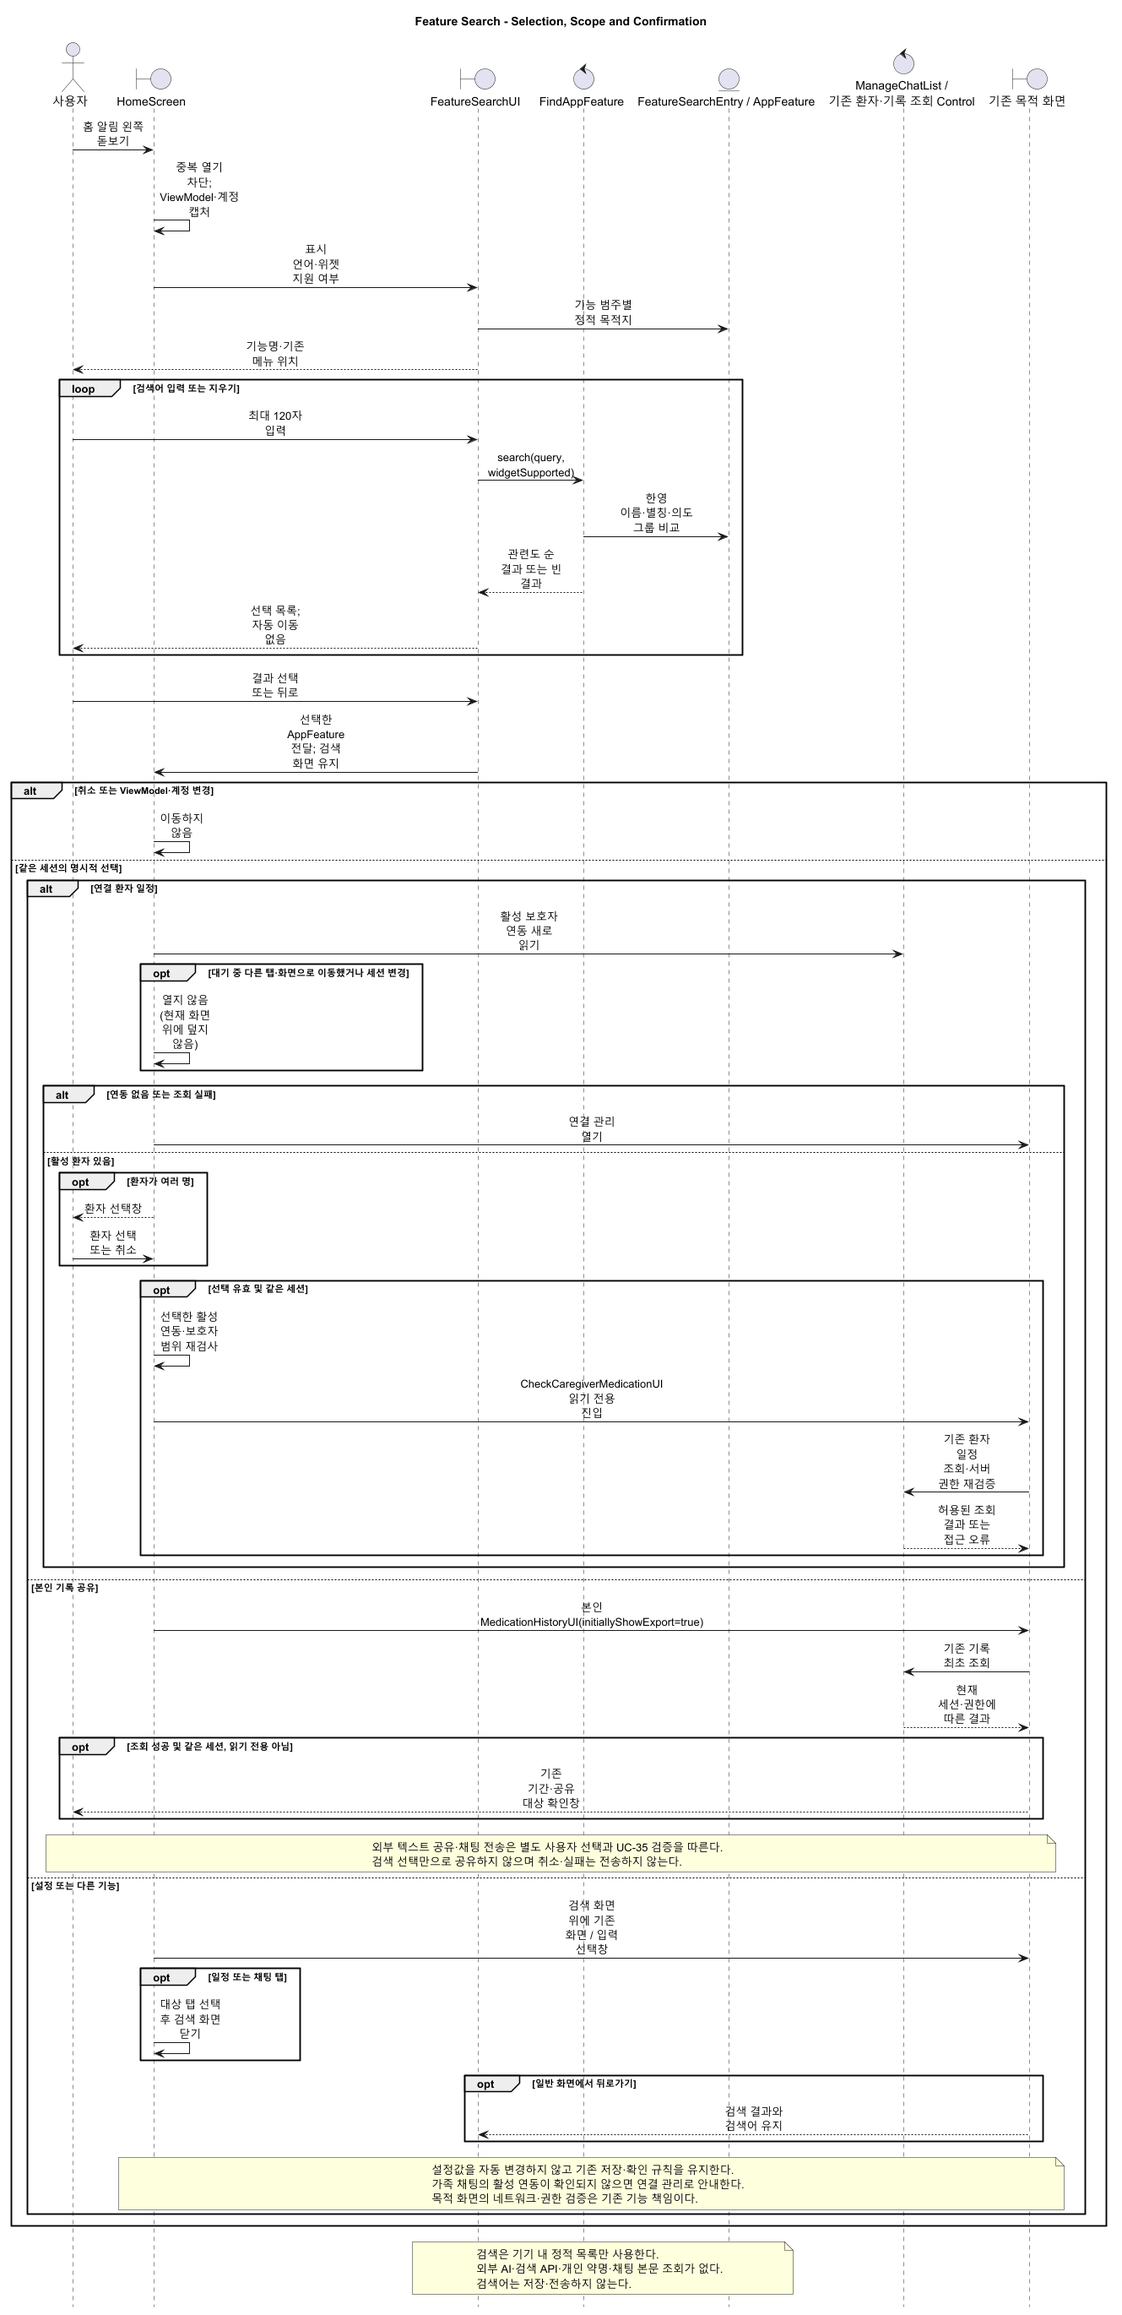
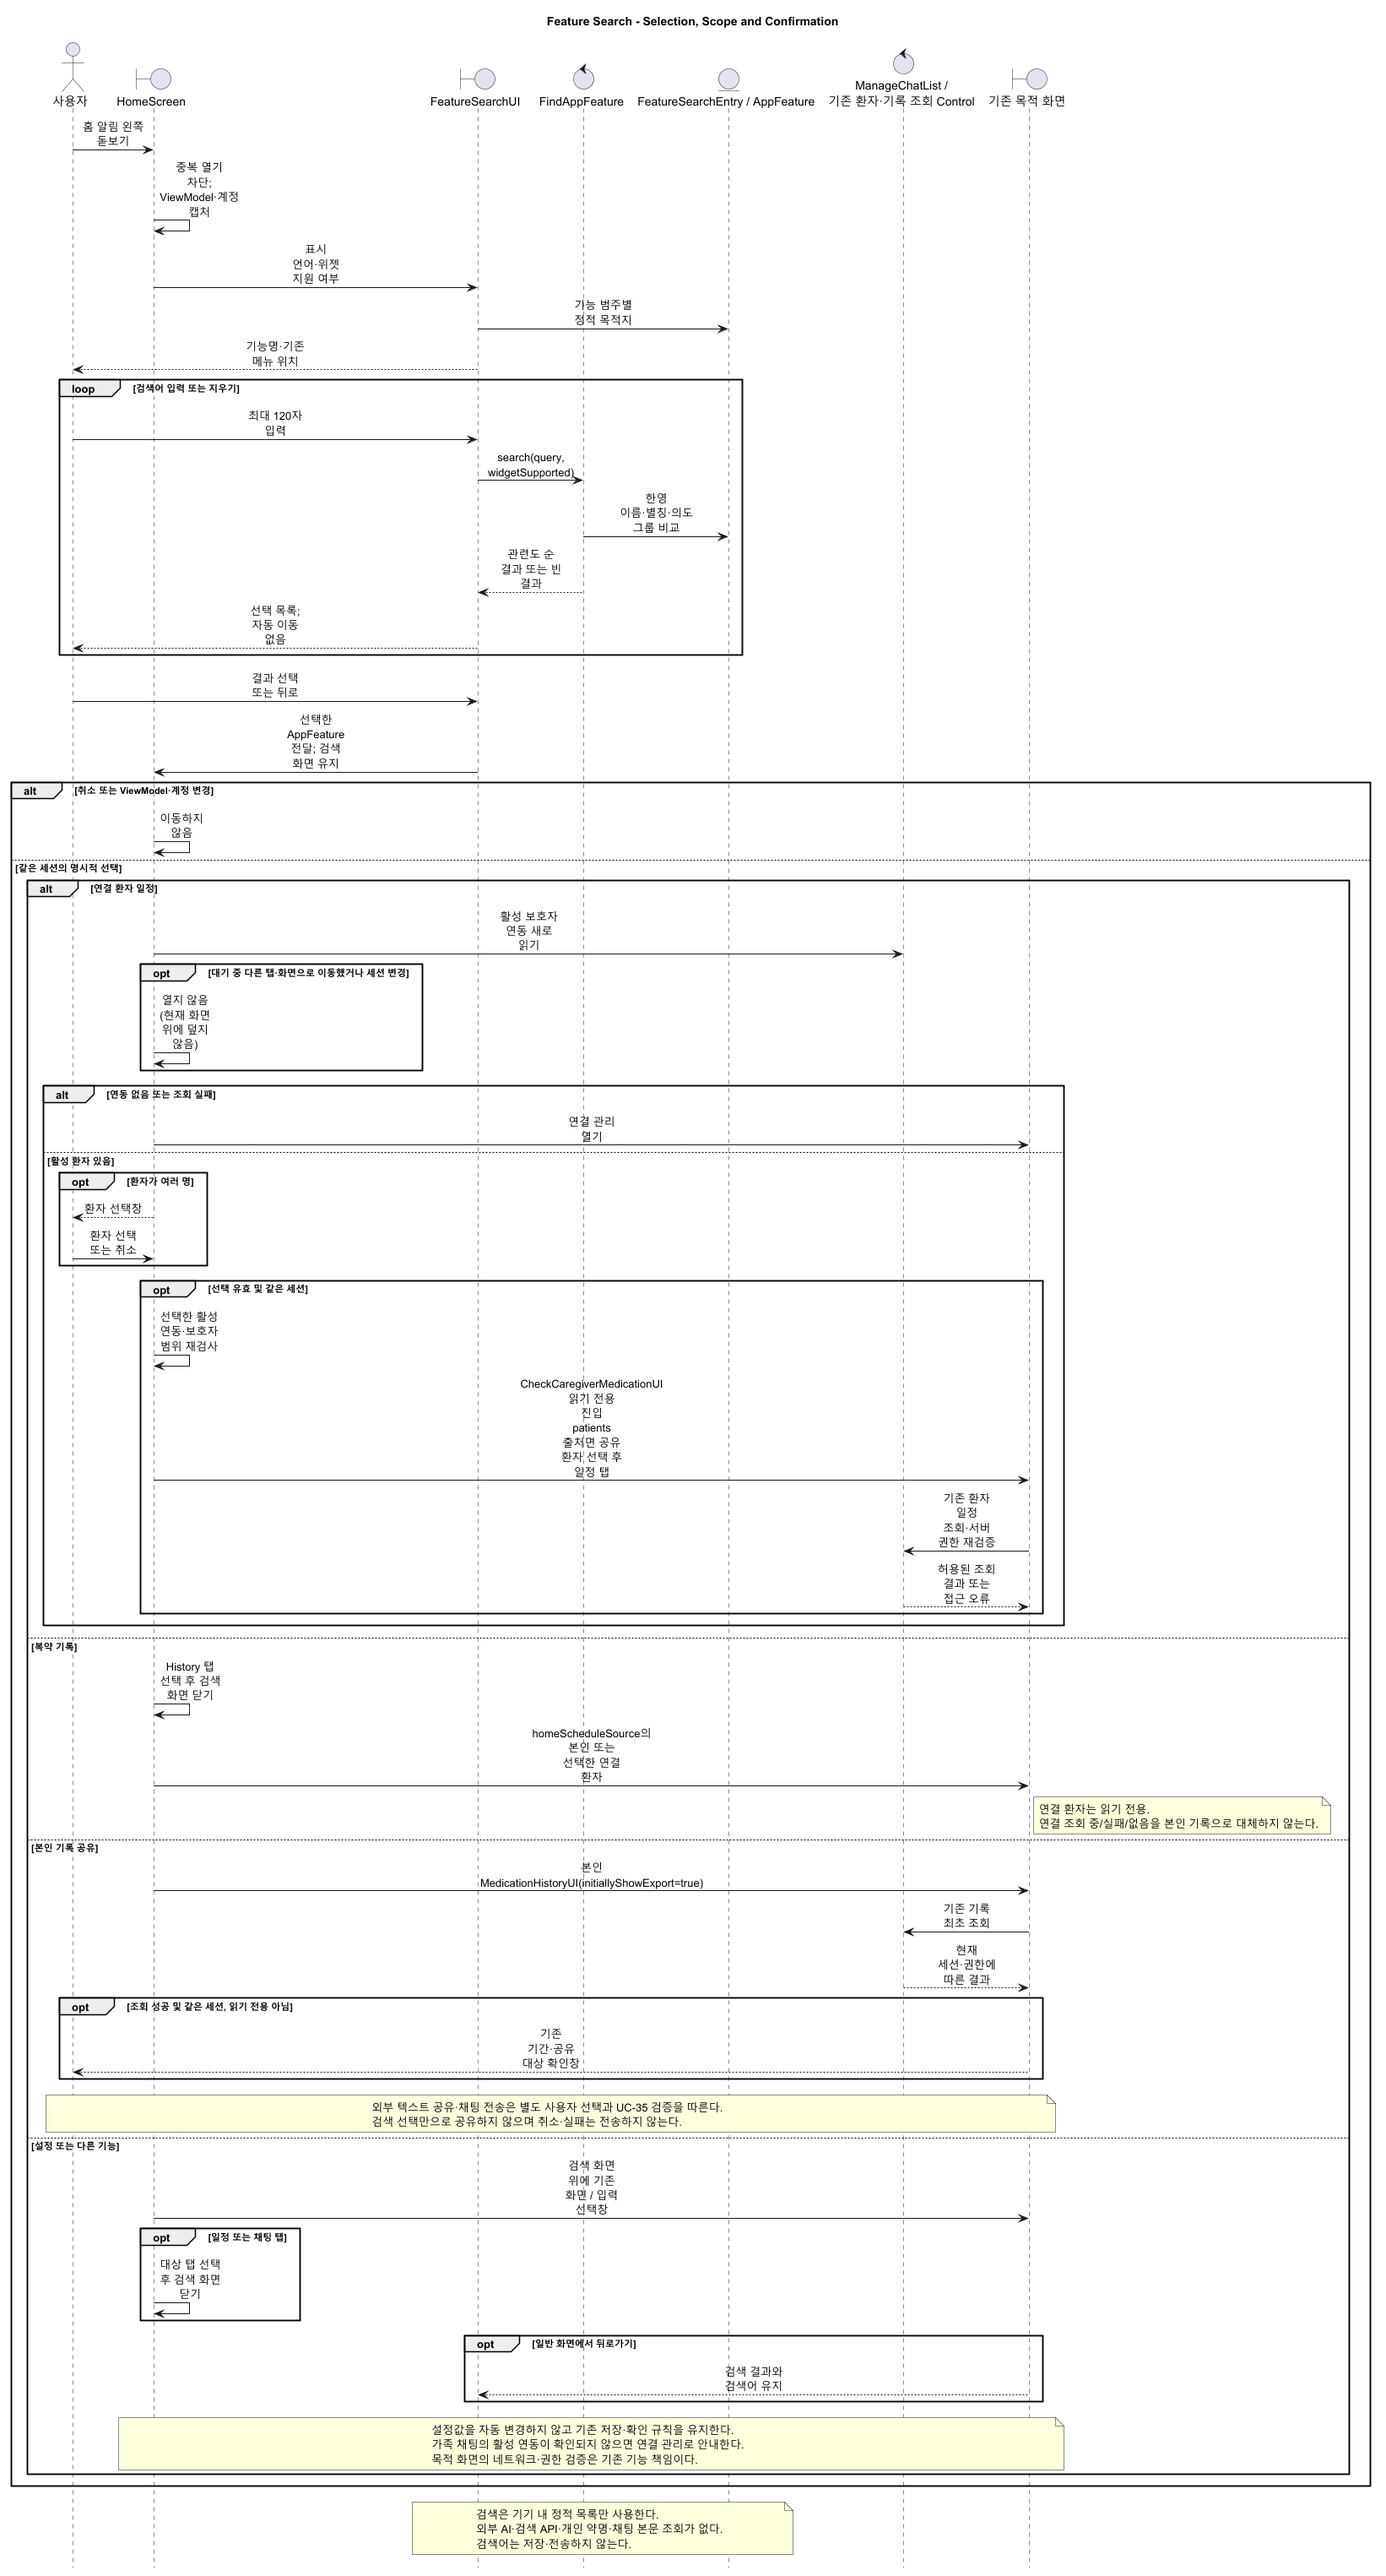
docs(architecture): align use cases and feature destinations

diff --git a/docs/UML/class/README.md b/docs/UML/class/README.md
@@ -2,13 +2,71 @@
 
 이 폴더에는 주요 책임과 계약을 보여주는 전체 구조 및 발표용 단계별 클래스 다이어그램을 함께 관리한다.
 같은 이름의 `.puml`은 설계 원본이고 `.png`는 그 렌더링 이미지다.
-현재 기준은 2026-10-29 `beta/v0.2.4` 전체 현행화에 그 뒤 `beta/v0.2.5`와 2026-11-07 `beta/v1.0.0`의
-변경을 더한 것이다(아래 최신 "2026-11-07 1.0.0 주요 기능 보완" 절).
+현재 기준은 기존 1.0.0 설계에 `bbbdef53` 이후 v1.0.1 준비 구현을 더한 것이다
+(아래 최신 "2026-11-16 v1.0.1 준비 구현" 절). 커밋 진행 중 HEAD 이동과 무관하게
+이 기준 커밋부터 작업 파일까지를 대조했다.
 이전 원본·PNG 재생성 기록은 아래에 이력으로 보존한다.
 이번 대상과 검증 결과는 별도 절에 구분하며 변경하지 않은 그림은 유지한다.
 이 문서와 그림은 개발 브랜치의 설계이며 운영 배포·출시 완료를 뜻하지 않는다.
 원본과 그림이 다르면 텍스트 원본을 기준으로 한다. 이번 원본의 PNG 갱신 여부는
 아래 최신 검증 절을 따르며, 과거 렌더링 성공을 새 원본의 검증으로 간주하지 않는다.
+
+## 2026-11-16 v1.0.1 준비 구현
+
+- 채팅: 선택 약 확인 요청의 서버 스냅샷과 오늘 수신한 약/시간대 요청의 환자 완료
+  동작을 반영했다. 일반 문구에서 복용을 추정하지 않으며 누른 시간대의 요청 약만
+  기존 영속 큐로 기록한다. 보호자 권한, 늦은 응답, 기기 저장/서버 ACK를 구분한다.
+- 연결 환자: 홈 출처 설정을 일정·기록 탭까지 적용하고 선택 환자를 공유한다.
+  연결 조회 중/실패/없음은 본인 데이터로 대체하지 않으며 보호자는 읽기 전용이다.
+- 위젯: 4 x 1/4 x 3은 같은 크기 조절 구현의 초기 크기다. 실제 Android 레이아웃의
+  개인정보 없는 미리보기, 두 Provider 발행·예약, 한 줄 화살표, 크기 재적용,
+  설치된 환자 위젯의 지속 조회와 Push 조회 힌트를 반영했다. 갱신 시각은 보장하지 않는다.
+- 등록: 일부 알약 선택·중복 일정 정리·공용 사진 모달·일정 검토를 거쳐 공통 결과로
+  인계한다. 인계는 저장이 아니며 개별/전체 저장, 실패 재시도, 완료 목적지와 임시 사진
+  소유권을 구분한다. 알약·직접 입력에는 처방 변화 레이더를 적용하지 않는다.
+- 정확 조회/보완: 선택 품목번호의 로컬 조회를 이름 재검색·AI 생성과 분리한다.
+  저장 확정 뒤 누락 상세는 동일성·revision·원래 누락 값 재검사 후 최선 노력으로만
+  보완한다. 영속 큐나 상세 완성 보장이 아니다.
+- 연결 코드: 정확한 소유 코드의 소비와 현재 활성 연결을 함께 확인하고 전경 창의
+  유효기간 안에서만 중복 없이 조회한다. 해제된 과거 코드는 재연결로 성공이 되살아나지 않는다.
+- 시간 초과: 단일 식별의 단계별 진단과 전송 timeout 분류를 문서화했다. 제한 시간
+  변경이나 원인 해결로 주장하지 않는다. 공유 outbox 열기는 다른 엔진의 트랜잭션을 보존한다.
+
+수정 클래스는 `02`, `04`, `06`, `08`이며 전체 통합 그림은 기존 기준선을 유지한다.
+새 계약의 상세는 기능별 그림과 다음 시퀀스·자연어 문서를 따른다.
+
+| 흐름 | 원본 |
+| --- | --- |
+| 등록 검토·정확 저장·지연 보완 (신규) | [MedicationRegistrationReview](../sequence/MedicationRegistrationReview.puml) |
+| 선택 약·시간대 채팅 완료 (신규) | [ChatMedicationCheck](../sequence/ChatMedicationCheck.puml) |
+| 연결 코드 상태 (신규) | [PatientLinkCodeStatus](../sequence/PatientLinkCodeStatus.puml) |
+| 위젯 크기·보호자 동기화 | [HomeDoseWidget](../sequence/HomeDoseWidget.puml) |
+| 설정 출처의 기록 진입 | [FeatureSearch](../sequence/FeatureSearch.puml) |
+
+자연어 설명은 [약 등록 검토](../../Medication%20Registration%20Review.md),
+[약명 매칭·진단](../../Medication%20Matching%20Review.md),
+[복약 관리·기록](../../Medication%20Care%20and%20History.md),
+[조회·갱신 정책](../../MedBuddy%20-%20Client%20Refresh%20Policy.md),
+[화면 상태](../../MedBuddy%20-%20Frontend%20Feature%20State.md),
+[기능 찾기](../../Feature%20Search.md), [유스케이스](../usecase/UseCaseDescription.md)를 따른다.
+
+### 이번 검증 범위
+
+- 로컬 PlantUML 1.2026.8과 Java로 전체 원본 22개에
+  `-charset UTF-8 -checkonly -failfast2`를 실행했다. 종료 코드는 0이다.
+- 수정 클래스 4개(`02`, `04`, `06`, `08`)와 위 표의 시퀀스 5개를
+  `-Djava.awt.headless=true -DPLANTUML_LIMIT_SIZE=12000` 및
+  `-charset UTF-8 -tpng -failfast2`로 렌더링했다. 기존 PNG 직접 덮어쓰기가
+  실패해 로컬 임시 출력 폴더에서 재생성한 뒤 대응 PNG 9개만 교체했다.
+  외부 렌더링 서버로 원본을 전송하지 않았다.
+- Nanum Gothic 설치를 확인했고 PNG 9개의 읽기·양수 크기·원본 이후 갱신 시각과
+  실제 표시를 확인했다. 빈 그림·구문 오류 이미지는 없다. `04`의 8192px 폭은
+  원본에 지정한 축소 폭이며 12000px 렌더러 한도에 잘린 값이 아니다. 큰 클래스
+  그림의 기존 복잡한 관계선은 유지하며 새 시퀀스와 원본을 상세 설명에 사용한다.
+- 변경 자연어 문서 8개의 상대 파일 링크 76개는 대상이 존재한다. 링크의 페이지 내
+  앵커나 외부 웹 주소 검사는 아니다. `git diff --check bbbdef53 -- docs`를 통과했다.
+- 애플리케이션 테스트·실기기 검증·커밋·태그·출시는 이 문서 작업에서 실행하지 않았다.
+  과거 PNG 재생성 기록을 이번 검사로 간주하지 않는다.
 
 ## Files
 

diff --git a/docs/MedBuddy - Frontend Feature State.md b/docs/MedBuddy - Frontend Feature State.md
@@ -228,6 +228,58 @@ failed reads or stale sessions do not open it.
 
 ## Prescriptions and completion boundary
 
+### Shared registration results
+
+The prescription feature also owns reviewed pill-photo and manual-registration
+results through `MedicationResultSource`. This is reuse of result/save state,
+not a second OCR pass or a claim that these inputs represent a whole prescription.
+The app hands off only selected pill candidates or validated manual entries;
+review acceptance does not save. Registration routes close only after the model
+accepts the handoff. Pill/manual results do not request a prescription-change radar.
+
+The shared result screen supports individual and sequential all-item saves,
+preserving saved/duplicate rows across later failures. A post-save refresh error
+does not unlock successful rows for resubmission. Once every row is complete,
+a centered dialog closes before navigating to today's schedule, pillbox or Home.
+Result-operation and account generations guard later saves and side effects;
+accepted server writes are not rolled back on navigation. Manual temporary photo
+ownership transfers with the accepted handoff and cleanup waits for in-use saves.
+The common gallery preserves each caller's image content, including OCR masking,
+with separate zoom/pan and original-scale photo paging. See
+[registration review and deferred details](Medication%20Registration%20Review.md).
+
+### Linked-patient tab scope
+
+`HomeScreen` applies `homeScheduleSource` to Schedule and History as well as Home.
+In patient mode the selected `(linkId, patientHash)` is shared by those tabs,
+retained while valid, and replaced by the first valid link when needed. There is
+no own-account fallback while links are unresolved, failed or empty. The captured
+owner/source/link/patient/generation scope invalidates retained history controls
+and rejects late reads after selection, source, account or relationship changes.
+`CheckCaregiverMedicationUI` polls only while its tab, route and app are active;
+caregiver schedule/history access remains read-only. The Android widget shares
+the configured source, but its instance-specific page selection is separate.
+
+### Link-code dialog lifetime
+
+The patient code dialog polls `GET /link/code/status` immediately and then two
+seconds after each completed attempt, without overlapping requests. The control
+uses a 15-second request timeout and abort support. Only the current foreground
+dialog, account and unexpired code can consume a response. Backgrounding,
+closing, expiry and account replacement stop watching and invalidate old results;
+resume rechecks within the remaining code lifetime (bounded to 15 minutes).
+
+The server returns `pending`, `linked`, `expired` or `revoked` for the owner's
+exact code with `Cache-Control: no-store`. Success requires that code's consumer
+pair to remain actively linked, not merely that some link exists. Unlinking clears
+that pair's consumption proof so a later re-link cannot revive an old code's
+success. Only a matching `linked` result triggers success presentation and parent
+refresh; network/auth errors are not evidence of consumption. A later list-read
+failure does not undo a successful link/alias/unlink response. See the
+[code-status sequence](UML/sequence/PatientLinkCodeStatus.puml).
+
+### Prescription-specific review
+
 OCR 인식이 끝나면 중간 분석 시작 확인 없이 약품 1차 조회까지 이어진다.
 `MedBuddyPrescriptionViewModel`은 인식 단계와 실제 조회 완료 건수를 분리하고,
 약별로 확인 완료·후보 있음·검색 결과 없음·조회 실패·조회 전 상태를 보존한다.

diff --git a/docs/Feature Search.md b/docs/Feature Search.md
@@ -55,12 +55,14 @@ DB 구조는 추가하지 않는다. 검색 자체는 네트워크 없이 가능
 - 약 검색은 별도 `MedicationSearchUI`로 이동한다. 기능 이름을 찾는 로컬 검색과
   달리, 이 화면에서 약명을 제출하면 기존 약품 조회 API를 사용한다. 상세 조회만으로
   약을 저장하지 않으며 직접 등록·채팅의 선택 모드와도 구분한다.
-- 복약 기록은 본인 범위를 사용한다. 환자 조회는 활성 보호자 연동에서 환자를
+- 복약 기록은 하단 기록 탭으로 이동해 `homeScheduleSource`의 본인/연결 환자
+  범위를 따른다. 연결 환자는 홈·일정·기록의 선택을 공유하며 읽기 전용이다.
+  별도 환자 조회는 활성 보호자 연동에서 환자를
   확인하고 기존 권한 재검증 경로를 통과한다. 환자가 한 명이면 바로 열고 여러
   명이면 선택창을 연다. 연동이 없거나 조회에 실패하면 연결 관리로 이동한다.
   연동 확인을 기다리는 사이 다른 탭이나 화면으로 옮겼다면 그 위에 열지 않는다.
   가족 채팅도 확인된 활성 연동이 없으면 연결 관리로 안내한다.
-- 기록 공유 검색은 최초 조회 성공 후 기존 기간·대상 확인창만 연다. 실제
+- 기록 공유 검색은 본인 기록의 최초 조회 성공 후 기존 기간·대상 확인창만 연다. 실제
   다른 앱으로 텍스트 공유 또는 채팅 전송은 사용자의 별도 선택과 기존 검증을 거친다.
 - 계정 삭제, 약 삭제, 복용 체크, 알림 켜기 등의 표현도 해당 화면을 찾을 뿐,
   검색이나 결과 선택만으로 데이터 변경·삭제·전송을 실행하지 않는다.
